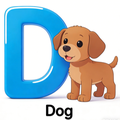
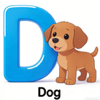
优化图片

diff --git a/didida/images/compress_images.py b/didida/images/compress_images.py
@@ -1,0 +1,104 @@
+#!/usr/bin/env python3
+"""压缩PNG图片到20KB左右"""
+import os
+import sys
+from PIL import Image
+
+def compress_png(input_path, target_size_kb=20, max_width=512):
+    """压缩PNG图片到目标大小"""
+    try:
+        # 打开图片
+        img = Image.open(input_path)
+        
+        # 如果是RGBA模式，转换为RGB
+        if img.mode == 'RGBA':
+            # 创建白色背景
+            background = Image.new('RGB', img.size, (255, 255, 255))
+            background.paste(img, mask=img.split()[3])  # 使用alpha通道作为mask
+            img = background
+        elif img.mode not in ['RGB', 'L']:
+            img = img.convert('RGB')
+        
+        # 计算当前文件大小
+        current_size = os.path.getsize(input_path)
+        current_size_kb = current_size / 1024
+        
+        print(f"处理: {os.path.basename(input_path)} - 原始大小: {current_size_kb:.1f}KB")
+        
+        # 如果已经小于目标大小，跳过
+        if current_size_kb <= target_size_kb * 1.2:
+            print(f"  -> 已足够小，跳过")
+            return False
+        
+        # 尝试不同的压缩质量
+        quality = 85
+        width = min(max_width, img.width)
+        height = int(width * img.height / img.width)
+        
+        while quality > 30:
+            # 调整大小
+            resized = img.resize((width, height), Image.Resampling.LANCZOS)
+            
+            # 保存到临时文件
+            temp_path = input_path + '.temp.png'
+            resized.save(temp_path, 'PNG', optimize=True, quality=quality)
+            
+            # 检查文件大小
+            temp_size = os.path.getsize(temp_path)
+            temp_size_kb = temp_size / 1024
+            
+            print(f"  质量{quality}%, 尺寸{width}x{height}: {temp_size_kb:.1f}KB")
+            
+            if temp_size_kb <= target_size_kb:
+                # 替换原文件
+                os.replace(temp_path, input_path)
+                print(f"  ✓ 压缩完成: {temp_size_kb:.1f}KB")
+                return True
+            elif quality == 30:
+                # 最低质量了，还是太大了，进一步缩小尺寸
+                width = int(width * 0.8)
+                height = int(height * 0.8)
+                quality = 70
+                if width < 200:
+                    # 使用最小尺寸的结果
+                    os.replace(temp_path, input_path)
+                    print(f"  ✓ 使用最小尺寸: {temp_size_kb:.1f}KB")
+                    return True
+                else:
+                    os.remove(temp_path)
+            else:
+                # 删除临时文件，降低质量
+                os.remove(temp_path)
+                quality -= 10
+        
+        return False
+        
+    except Exception as e:
+        print(f"  ✗ 错误: {e}")
+        return False
+
+if __name__ == '__main__':
+    if len(sys.argv) < 2:
+        print("用法: python3 compress_images.py <目录>")
+        sys.exit(1)
+    
+    target_dir = sys.argv[1]
+    
+    if not os.path.isdir(target_dir):
+        print(f"错误: {target_dir} 不是目录")
+        sys.exit(1)
+    
+    # 处理所有PNG文件
+    png_files = [f for f in os.listdir(target_dir) if f.lower().endswith('.png')]
+    png_files.sort()
+    
+    print(f"找到 {len(png_files)} 个PNG文件\n")
+    
+    compressed_count = 0
+    for png_file in png_files:
+        full_path = os.path.join(target_dir, png_file)
+        if compress_png(full_path):
+            compressed_count += 1
+        print()
+    
+    print(f"\n完成! 共压缩 {compressed_count}/{len(png_files)} 个文件")
